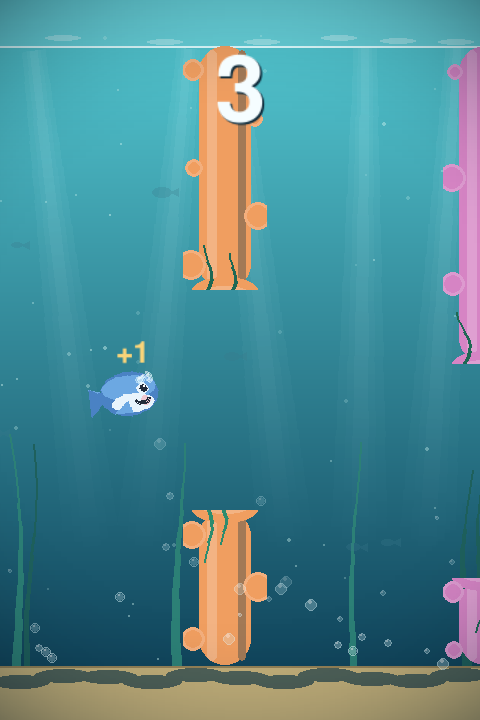
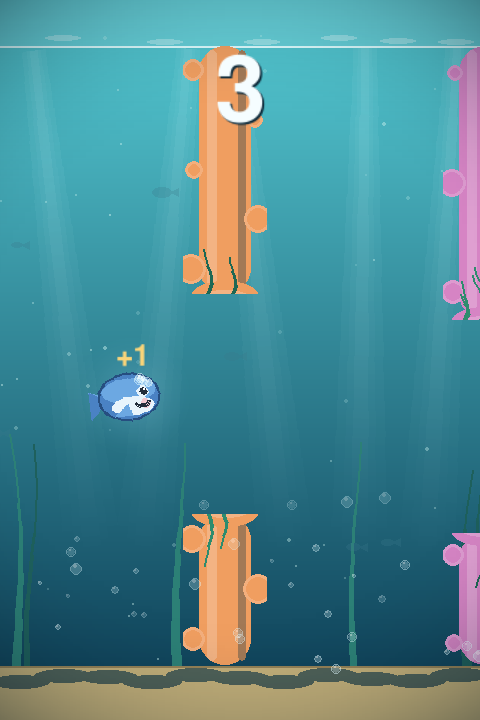
Polish: whale glow halo + outline, new-best sparkles
- Whale now has a soft radial glow halo and a darker body outline so it reads
  clearly against the god-rays
- Twinkling gold sparkles flank the "New Best!" label on the game-over panel
- Refreshed README screenshot

All 51 tests pass; pyflakes clean.

Claude-Session: https://claude.ai/code/session_016nce4CasBay3dMRLgtbgvj

diff --git a/main.py b/main.py
@@ -340,7 +340,9 @@ class Game:
         self._text("medium", f"Score  {self.score}", config.TEXT_COLOR, (inner_cx, prect.top + 100))
         best_label = "New Best!  " + str(self.highscore) if self.new_best else f"Best  {self.highscore}"
         best_color = config.TEXT_ACCENT if self.new_best else config.TEXT_COLOR
-        self._text("medium", best_label, best_color, (inner_cx, prect.top + 138))
+        best_rect = self._text("medium", best_label, best_color, (inner_cx, prect.top + 138))
+        if self.new_best:
+            self._draw_new_best_sparkles(best_rect)
 
         if self.state_time > 20:
             pulse = 0.5 + 0.5 * math.sin(self.state_time * 0.09)
@@ -348,6 +350,29 @@ class Game:
             prompt.set_alpha(int(120 + 135 * pulse))
             rect = prompt.get_rect(center=(inner_cx, prect.bottom - 26))
             self.screen.blit(prompt, rect)
+
+    def _draw_new_best_sparkles(self, around: pygame.Rect) -> None:
+        """Draw twinkling 4-point sparkles flanking the 'New Best!' label."""
+        spots = [
+            (around.left - 16, around.centery - 6),
+            (around.right + 16, around.centery + 4),
+            (around.left - 2, around.top - 8),
+            (around.right + 2, around.bottom + 4),
+        ]
+        for i, (sx, sy) in enumerate(spots):
+            tw = 0.5 + 0.5 * math.sin(self.state_time * 0.16 + i * 1.6)
+            size = 4 + 4 * tw
+            alpha = int(120 + 135 * tw)
+            color = (*config.TEXT_ACCENT, alpha)
+            spark = pygame.Surface((int(size * 2 + 2), int(size * 2 + 2)), pygame.SRCALPHA)
+            c = spark.get_width() / 2
+            pygame.draw.line(spark, color, (c, c - size), (c, c + size), 2)
+            pygame.draw.line(spark, color, (c - size, c), (c + size, c), 2)
+            pygame.draw.line(spark, color, (c - size * 0.5, c - size * 0.5),
+                             (c + size * 0.5, c + size * 0.5), 1)
+            pygame.draw.line(spark, color, (c - size * 0.5, c + size * 0.5),
+                             (c + size * 0.5, c - size * 0.5), 1)
+            self.screen.blit(spark, spark.get_rect(center=(sx, sy)))
 
     def _draw_flash(self) -> None:
         """White impact flash overlay."""

diff --git a/whale.py b/whale.py
@@ -36,6 +36,7 @@ class Whale:
 
         # Lazily built, tilt/flap dependent sprite cache.
         self._sprite_cache: dict[int, pygame.Surface] = {}
+        self._glow: pygame.Surface | None = None
 
     # ------------------------------------------------------------------ #
     # Physics
@@ -124,10 +125,19 @@ class Whale:
         return sprite
 
     def draw(self, target: pygame.Surface, offset: tuple[float, float] = (0.0, 0.0)) -> None:
-        """Draw the whale onto ``target``, applying tilt via rotation."""
+        """Draw the whale onto ``target`` — soft glow halo, then tilted sprite."""
+        cx, cy = self.x + offset[0], self.y + offset[1]
+
+        if self._glow is None:
+            from assets import draw  # rendering-only dependency
+
+            self._glow = draw.radial_glow(int(self.width * 0.95), config.WHALE_GLOW, 70)
+        glow_rect = self._glow.get_rect(center=(cx, cy))
+        target.blit(self._glow, glow_rect)
+
         sprite = self._get_sprite()
         rotated = pygame.transform.rotate(sprite, self.tilt)
-        rect = rotated.get_rect(center=(self.x + offset[0], self.y + offset[1]))
+        rect = rotated.get_rect(center=(cx, cy))
         target.blit(rotated, rect)
 
     # ------------------------------------------------------------------ #

diff --git a/assets/draw.py b/assets/draw.py
@@ -168,6 +168,9 @@ def build_whale_surface(flap_phase: float) -> pygame.Surface:
     )
 
     # --- Body (rounded blob) ------------------------------------------------
+    # Soft darker outline first (a slightly larger blob) for definition.
+    outline_pts = _blob_points(body_cx, body_cy, body_rx + 2.2, body_ry + 2.2)
+    pygame.draw.polygon(surf, config.WHALE_OUTLINE, outline_pts)
     body_pts = _blob_points(body_cx, body_cy, body_rx, body_ry)
     pygame.draw.polygon(surf, config.WHALE_BODY, body_pts)
     # Lighter top for a soft top-lit look.

diff --git a/config.py b/config.py
@@ -152,6 +152,8 @@ KELP_COLOR_LIGHT: tuple[int, int, int] = (44, 128, 118)
 
 WHALE_BODY: tuple[int, int, int] = (74, 130, 196)       # friendly blue
 WHALE_BODY_LIGHT: tuple[int, int, int] = (108, 168, 226)
+WHALE_OUTLINE: tuple[int, int, int] = (38, 78, 128)     # soft darker edge
+WHALE_GLOW: tuple[int, int, int] = (150, 214, 246)      # gentle halo
 WHALE_BELLY: tuple[int, int, int] = (232, 244, 252)
 WHALE_CHEEK: tuple[int, int, int] = (246, 168, 176)
 WHALE_EYE: tuple[int, int, int] = (34, 44, 58)